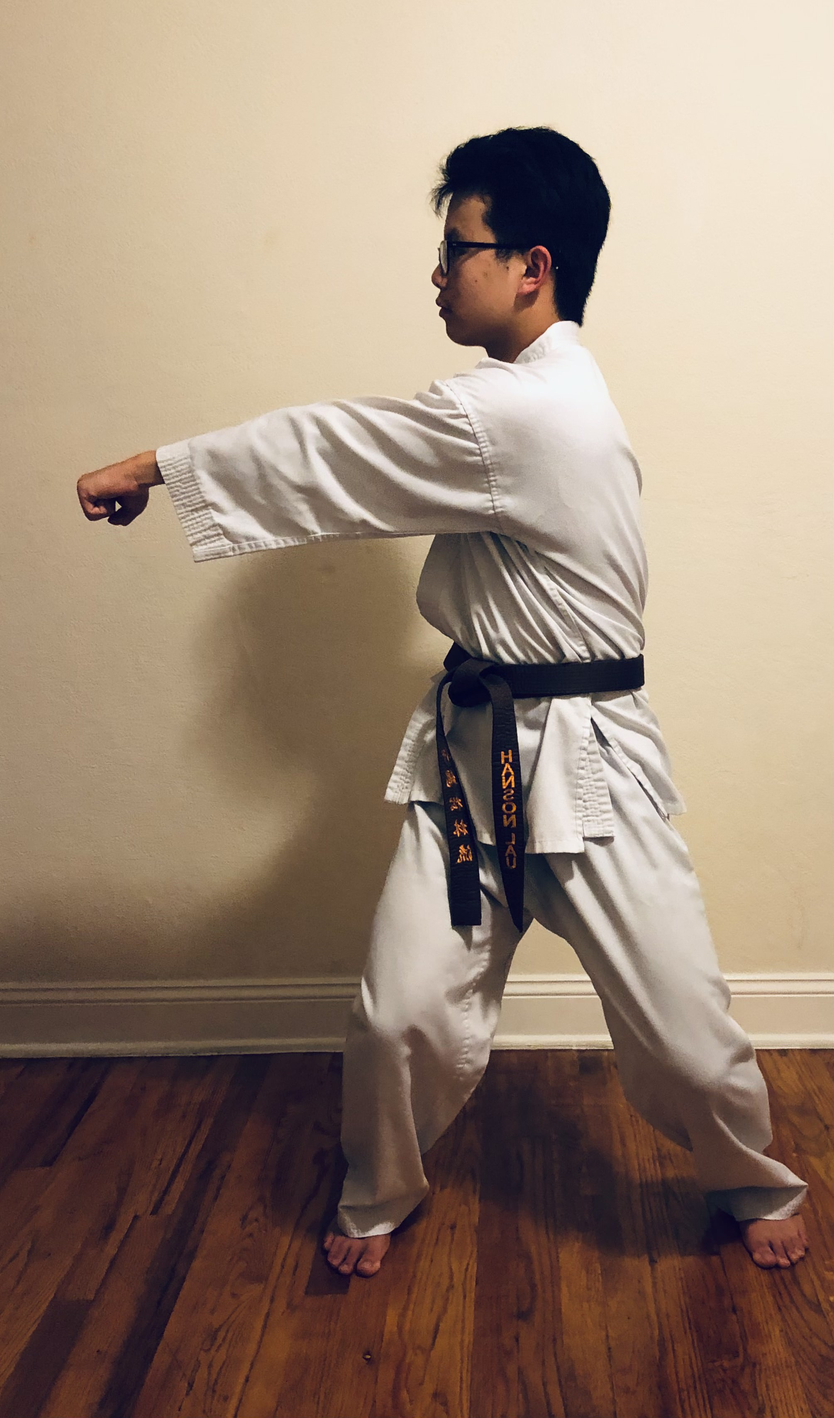
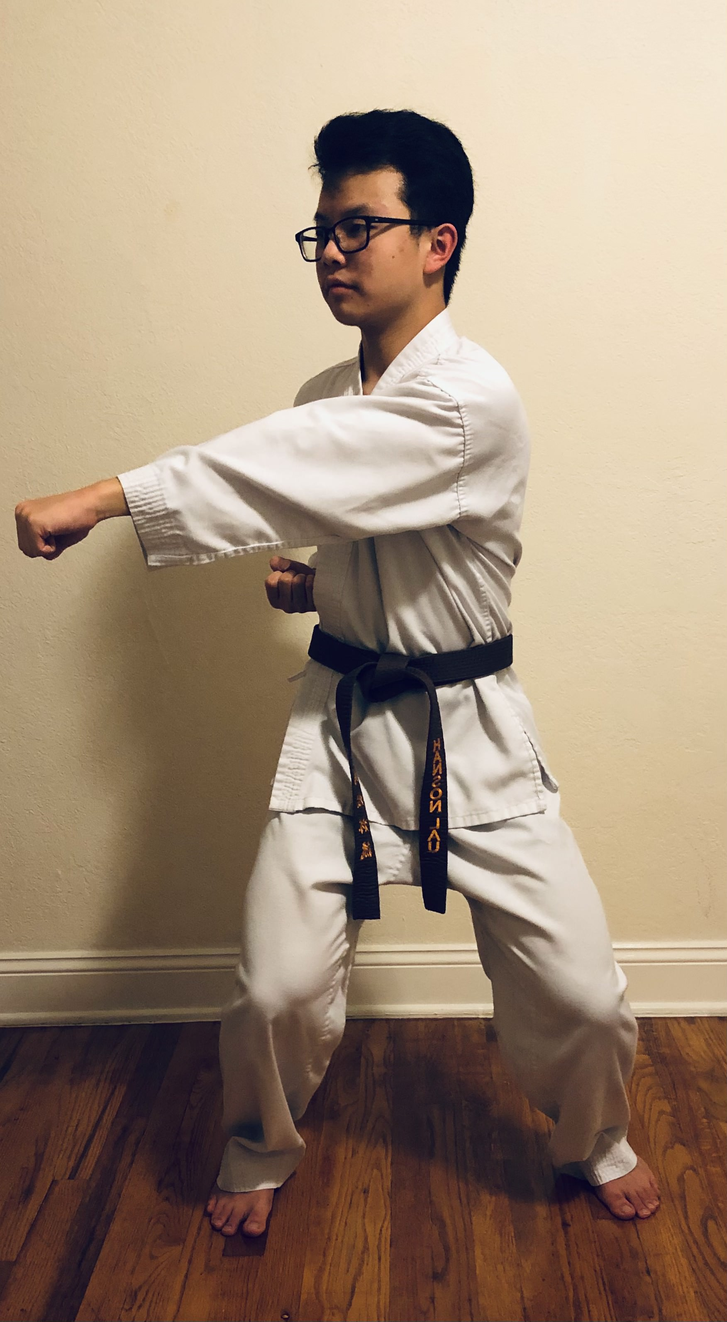
added pics for n2

diff --git a/n2.html b/n2.html
@@ -41,7 +41,79 @@
             <h1>Description</h1>
     
         </div>
-    
+        
+        <!-- Steps-->
+
+        <div id="st" class="step">
+
+            <h1>Steps</h1>
+
+            <p class="func">Please use desktop to view steps</p>
+            <p class="instruc">Click on image to see the direction (bird's eye view) of the move</p>
+            <!-- May have to change purpose of arrows for naihanchi since its only side to side.-->
+            <div class="moves">
+
+            <div class="row1">
+                    <img class="f" src="./kata-pics/leftopen-overfist-feettogether-ready.jpeg" alt="Use Chrome browser">
+                    <img class="f" src="./kata-pics/n-crossright.jpeg" alt="Use Chrome broswer">
+                    <img class="f" src="./kata-pics/n-rightsliceblock.jpeg" alt="Use Chrome broswer">
+                    <img class="f" src="./kata-pics/n-leftelbow-strike.jpeg" alt="Use Chrome broswer">
+                    <img class="f" src="./kata-pics/n-rightside-chamber-lookleft.jpeg" alt="Use Chrome broswer">
+                    <img class="f" src="./kata-pics/n-left-lowblock.jpeg" alt="Use Chrome broswer">
+
+                </div>
+
+                <div class="row2">
+                    <img class="f" src="./kata-pics/n-right-sidepunch.jpeg" alt="Use Chrome broswer">
+                    <img class="f" src="./kata-pics/n-leftside-chamber-lookleft.jpeg" alt="Use Chrome broswer">
+                    <img class="f" src="./kata-pics/n-leftside-chamber-lookleft-movingleft.jpeg" alt="Use Chrome broswer">
+                    <img class="f" src="./kata-pics/n-right-middleblock.jpeg" alt="Use Chrome broswer">
+                    <img class="f" src="./kata-pics/n-doubleblock-lefttop.jpeg" alt="Use Chrome broswer">
+                    <img class="f" src="./kata-pics/n-leftsetup-strike.jpeg" alt="Use Chrome broswer">
+
+                </div>
+
+                <div class="row3">
+                    <img class="r" src="./kata-pics/n-left-fiststrike.jpeg" alt="Use Chrome broswer">
+                    <img class="f" src="./kata-pics/n-left-horseblock.jpeg" alt="Use Chrome broswer">
+                    <img class="f" src="./kata-pics/n-left-innerblock.jpeg" alt="Use Chrome broswer">
+                    <img class="f" src="./kata-pics/n-rightside-chamber-lookleft.jpeg" alt="Use Chrome broswer">
+                    <img class="f" src="./kata-pics/n-left-straightstrike.jpeg" alt="Use Chrome broswer">
+                    <img class="f" src="./kata-pics/n-leftsliceblock.jpeg" alt="Use Chrome broswer">
+
+                </div>
+
+                <div class="row4">
+                    <img class="f" src="./kata-pics/n-right-elbowstrike.jpeg" alt="Use Chrome broswer">
+                    <img class="f" src="./kata-pics/n-leftside-chamber-lookright.jpeg" alt="Use Chrome broswer">
+                    <img class="f" src="./kata-pics/n-right-lowblock.jpeg" alt="Use Chrome broswer">
+                    <img class="f" src="./kata-pics/n-left-sidepunch.jpeg" alt="Use Chrome broswer">
+                    <img class="f" src="./kata-pics/n-rightside-chamber-lookright.jpeg" alt="Use Chrome broswer">
+                    <img class="f" src="./kata-pics/n-rightside-chamber-lookright-movingright.jpeg" alt="Use Chrome browser">
+
+                </div>
+
+                <div class="row5">
+                    <img class="f" src="./kata-pics/n-left-middleblock.jpeg" alt="Use Chrome broswer">
+                    <img class="f" src="./kata-pics/n-doubleblock-righttop.jpeg" alt="Use Chrome broswer">
+                    <img class="f" src="./kata-pics/n-rightsetup-strike.jpeg" alt="Use Chrome broswer">
+                    <img class="f" src="./kata-pics/n-right-fiststrike.jpeg" alt="Use Chrome broswer">
+                    <img class="f" src="./kata-pics/n-right-horseblock.jpeg" alt="Use Chrome broswer">
+                    
+                </div>
+
+                <div class="row6">
+                    <img class="f" src="./kata-pics/n-right-innerblock.jpeg" alt="Use Chrome broswer">
+                    <img class="f" src="./kata-pics/n-leftside-chamber-lookright.jpeg" alt="Use Chrome broswer">
+                    <img class="f" src="./kata-pics/n-right-straightstrike.jpeg" alt="Use Chrome broswer">
+                    <img class="f" src="./kata-pics/leftopen-overfist-feettogether-ready.jpeg" alt="Use Chrome broswer">
+                    
+                </div>
+
+            </div>
+
+        </div>
+
         <!-- Videos-->
     
         <div id="vid" class="video">
